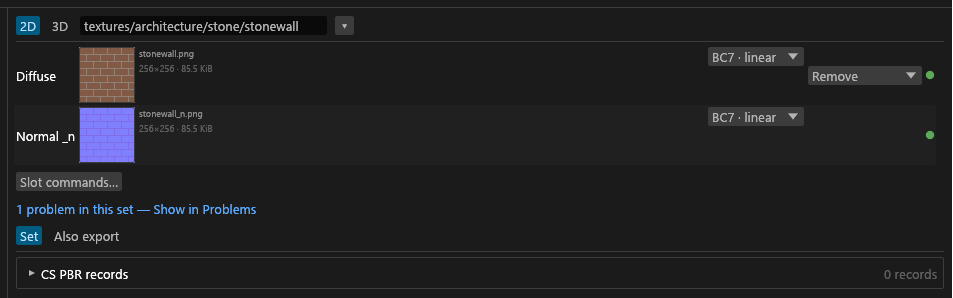
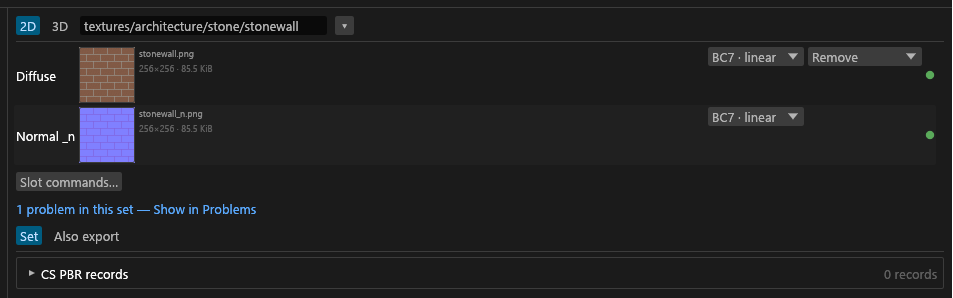
docs: Also export shot, refreshed shots and wiki wording (Note JI)

Changed region(s): [[0.8216, 0.151, 0.9738, 0.302]]

diff --git a/crates/gui/tests/doc_shots/scenarios.rs b/crates/gui/tests/doc_shots/scenarios.rs
@@ -39,6 +39,7 @@ pub const SCENARIOS: &[(&str, Scenario)] = &[
     ("marker_dialog", marker_dialog),
     ("set_editor", set_editor),
     ("slot_menu", slot_menu),
+    ("also_export_tab", also_export_tab),
     ("pgp_material", pgp_material),
     ("helper_panel", helper_panel),
     ("cube_panel", cube_panel),
@@ -385,6 +386,14 @@ fn set_editor(dir: &Path) -> Frame {
         select_set(&mut h.state_mut().model, "architecture/stone/stonewall")
     });
     shot(&mut h, r)
+}
+
+/// GUI-Set-Editor: the Also export tab of a PBR set, opened as Review's "Recipe settings…" opens it (Note JI2).
+fn also_export_tab(dir: &Path) -> Frame {
+    let mut h = opened_with(dir, |m| select_set(m, "architecture/stone/cobble"));
+    let r = reveal(&mut h, |h| sdc_gui::ui::set_editor::show_also_tab(&h.ctx));
+    let tab = rightmost(&h, "Also export").rect();
+    shot(&mut h, r.union(tab))
 }
 
 /// GUI-Set-Editor: a set-editor slot row's right-click menu (the slot menus).

diff --git a/docs/wiki/GUI-Set-Editor.md b/docs/wiki/GUI-Set-Editor.md
@@ -16,7 +16,11 @@ One row per PGPatcher slot the set's shader uses, in slot order, at most 8. A fi
 - Slot 7 holds the set's `_cnr` or `_f`. With both, the row turns red, lists each with a ✕ to take one out, and export warns "_cnr and _f both use slot 7", because PGPatcher has one slot 7. A `_g` and an `_sk` on slot 3 clash the same way.
 - A `_coat` fills Subsurface, which then reads **Coat colour + strength**.
 - A complex `_m` has no row. Its **Enable parallax** box sits under the rows ([Texture settings](GUI-Texture-Panel.md#changing-a-setting)).
-- **Match on this** (Diffuse, Normal) makes PGPatcher apply the entry to meshes with that exact texture in that slot ([Matching](GUI-PGPatcher-JSON.md#matching)). The Diffuse row's alpha dropdown shows the texture's alpha type (**Remove**, **Cutout**, **Blend**, **Cutout + Blend**, **Data**: [Alpha](Texture-Types.md#alpha)). A pick writes `alpha.policy` as one undo step. **Confirm** sits beside it while the alpha is asked, and **↺** goes back to the inherited type once the texture has its own. <!-- D:JI5 -->
+
+Two controls sit at a row's right end:
+
+- **Match on this** (Diffuse, Normal) makes PGPatcher apply the entry to meshes with that exact texture in that slot ([Matching](GUI-PGPatcher-JSON.md#matching)).
+- The Diffuse row's alpha dropdown shows the texture's alpha type (**Remove**, **Cutout**, **Blend**, **Cutout + Blend**, **Data**: [Alpha](Texture-Types.md#alpha)). A pick writes `alpha.policy` as one undo step. **Confirm** sits beside it while the alpha is asked, and **↺** goes back to the inherited type once the texture has its own. <!-- D:JI5 -->
 
 Drop a file from Explorer on a row to fill it. It must be a texture of the open folder and fit the slot; files are never copied, and the row says why if it refuses. The **Shader** dropdown lists the Mode's shaders, **Auto** clears your pick, and how a shader is chosen is on [Set shaders](Set-Shaders.md#how-the-shader-is-picked).
 
@@ -41,11 +45,13 @@ Under a packed output (`_rmaos`, `_rfaos`, `_m`, `_p`), each channel has a **Sou
 
 ## Also export tab
 
-The set editor's second tab holds the settings of [Also export as Vanilla and CM](Set-Shaders.md#also-export-as-vanilla-and-cm). <!-- D:JI2 -->
+The set editor's second tab holds the [Also export as Vanilla and CM](Set-Shaders.md#also-export-as-vanilla-and-cm) settings: one switch for this set, then the ones every set shares. <!-- D:JI2 -->
 
-- **This set:** on a PBR set, **Skip vanilla/CM for this set** leaves the set out of the Vanilla and CM folders. It is greyed until one of the two ticks below is on. Any other set reads "Also export reads PBR sets only; this set is not one".
-- **All sets in this project:** **Also export as Vanilla** and **Also export as Complex material**, the same ticks as **Export to ▾**, then the [recipe](Set-Shaders.md#the-recipe) numbers, greyed while both ticks are off. These apply to every set.
-- A greyed control says why on hover: an export is running or `sdc.toml` is read-only. An unticked **Also export as** box is also greyed outside the `cs` mode.
+![The Also export tab of a PBR set: the Skip tick, the two Also export as ticks and the recipe numbers.](../img/gui/GUI-Set-Editor/also-export-tab.png)
+
+- **This set:** **Skip vanilla/CM for this set** keeps a PBR set out of the Vanilla and CM folders. It stays greyed until you turn on one of the two ticks below. A set that isn't PBR reads "Also export reads PBR sets only; this set is not one".
+- **All sets in this project:** **Also export as Vanilla** and **Also export as Complex material** (the same ticks as in **Export to ▾**), then the [recipe](Set-Shaders.md#the-recipe) numbers. The numbers stay greyed until a tick is on, and they apply to every set.
+- Hover a greyed control for the reason: an export is running, or `sdc.toml` is read-only. Outside the `cs` mode an unticked **Also export as** box is greyed too.
 
 ## Shared helpers
 

diff --git a/docs/wiki/GUI-Problems.md b/docs/wiki/GUI-Problems.md
@@ -42,13 +42,18 @@ A row you must act on has its fix as a button.
 | *No texture set of the latest scan uses this texture* (grey) | No button: the set still exports. |
 | *Replaces {file} of the target mod in the load order* (an output the target mod already ships) | No button: the set still exports. Rename its outputs to keep the target's file ([Renaming](GUI-Bulk-and-Rename.md#renaming)). <!-- D:HL6 --> |
 | *Preset {id} was skipped: it clashes with {other} on aliases* | **Remove aliases from {id}**: [Presets and targets](Presets-and-Targets.md#checking-and-installing). |
-| *3 saved settings name no file in this mode (cs)* (grey, on Project; hover lists them) | **Entries ▾** lists each `[files]` entry with its own **Remove**; **Remove all** deletes every one as one undo step. [Before you remove one](#unmatched-files-entries). <!-- D:JI6 --> |
+| *{n} saved settings name no file in this mode ({mode})* (grey, on Project; hover lists them) | **Entries ▾** lists each `[files]` entry with its own **Remove**; **Remove all** deletes every one as one undo step. [Before you remove one](#unmatched-files-entries). <!-- D:JI6 --> |
 
 Info rows count in the tab's number but never against "ready".
 
 ### Unmatched [files] entries
 
-A `[files]` entry in `sdc.toml` whose key names no file (the file was renamed, moved or deleted) does nothing, so Problems lists all of them in one grey row. Before you remove one, check the mode in the row: some files are planned only under `cs`, so an entry can name no file in `vanilla` and still match in `cs`. The removes wait for the plan to finish, and **Remove all** is greyed while `sdc.toml` names another mode than the one shown; its hover lists what it deletes.
+A `[files]` entry in `sdc.toml` whose key names no file does nothing. That happens when the file was renamed, moved or deleted. Problems lists every such entry in one grey row.
+
+Check the mode in the row before you remove anything. Some files are planned only under `cs`, so an entry that names no file in `vanilla` can still match in `cs`.
+
+- **Remove** and **Remove all** are greyed while the plan runs and while `sdc.toml` is read-only.
+- **Remove all** is also greyed while `sdc.toml` names a different mode from the one in the row. Its hover lists what it deletes.
 
 ## Deciding from the list
 

diff --git a/docs/wiki/GUI-Texture-Panel.md b/docs/wiki/GUI-Texture-Panel.md
@@ -104,7 +104,7 @@ A DDS input is left as it is and not written. **Re-encode this file** writes `re
 
 ## Where these settings come from
 
-To see what set a value (a built-in default, a preset, a rule, `sdc.toml`, the image analysis), open **Where these settings come from**, the folded section at the bottom of the panel. It lists every field of the texture with its value and its source, and puts the values that differ from the `sdc-base` preset in bold. Tick **Show only what differs from sdc-base** to hide the rest; the tick stays as you move between textures. It only reads: change a value in the rows above. <!-- D:JI3 --> How presets and rules stack: [Presets and targets](Presets-and-Targets.md).
+To see what set a value (a built-in default, a preset, a rule, `sdc.toml`, the image analysis), open **Where these settings come from**, the folded section at the bottom of the panel. It lists every field of the texture with its value and its source, and puts the values that differ from the `sdc-base` preset in bold. Tick **Show only what differs from sdc-base** to hide the rest; the tick stays as you move between textures. The section is read-only; to change a value, use the rows above. <!-- D:JI3 --> How presets and rules stack: [Presets and targets](Presets-and-Targets.md).
 
 ## How edits are saved
 

diff --git a/docs/wiki/GUI-Review-and-Export.md b/docs/wiki/GUI-Review-and-Export.md
@@ -14,7 +14,7 @@ It reads **Review n files** while something is undecided, blocked or waiting, an
 4. Opens the [Files tab](#the-files-tab).
 5. Writes the PGPatcher JSON after a complete export ([Where the JSON goes](GUI-PGPatcher-JSON.md#where-the-json-goes)), then any NIF edits ([Editing a NIF](GUI-NIF-Edit.md)).
 
-Export can't write into the folder it reads. With no export folder chosen, Review blocks: see [Export to](GUI-Main-Window.md#export-to). With **Also export** on, Review always opens and its **Export** writes three folders ([Set shaders and Also export](Set-Shaders.md#also-export-as-vanilla-and-cm)). Its **Recipe settings…** link opens the recipe in a PBR set's Also export tab ([The recipe](Set-Shaders.md#the-recipe)).
+Export can't write into the folder it reads. With no export folder chosen, Review blocks: see [Export to](GUI-Main-Window.md#export-to). With **Also export** on, Review always opens and its **Export** writes three folders ([Set shaders and Also export](Set-Shaders.md#also-export-as-vanilla-and-cm)). Review's **Recipe settings…** link opens the recipe in a PBR set's Also export tab ([The recipe](Set-Shaders.md#the-recipe)).
 
 **IMPORTANT:** files an earlier export wrote that the project no longer produces stay in the export folder. Tessalith never deletes them.
 

diff --git a/docs/wiki/GUI-Main-Window.md b/docs/wiki/GUI-Main-Window.md
@@ -39,13 +39,13 @@ A dot in the window title means unsaved edits. The status line shows file and se
 
 ## Settings tab
 
-**Settings…** in the header opens the Settings tab in the centre column, beside the Presets tab, also with no folder open. **Pop out** gives it its own window. It has two sections: what belongs to the open folder, then what applies everywhere. <!-- D:JI1 -->
+**Settings…** in the header opens the Settings tab in the centre column, beside the Presets tab. It works with no folder open, and **Pop out** gives it its own window. The top section belongs to the open folder; the lower one applies to every project. <!-- D:JI1 -->
 
 ![The Settings tab: the project's Mode, Preset and export folder, then the Preview, Checks, Cache and Columns groups.](../img/gui/GUI-Main-Window/settings-tab.png)
 
 ### This project
 
-These rows save in the open folder. With no folder open the section reads "No project open".
+These rows are saved in the open folder's files. With no folder open, the section reads "No project open".
 
 | Row | Writes |
 |---|---|
